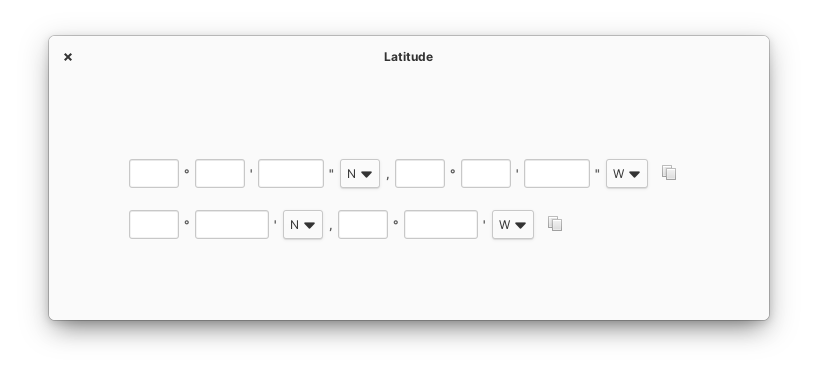
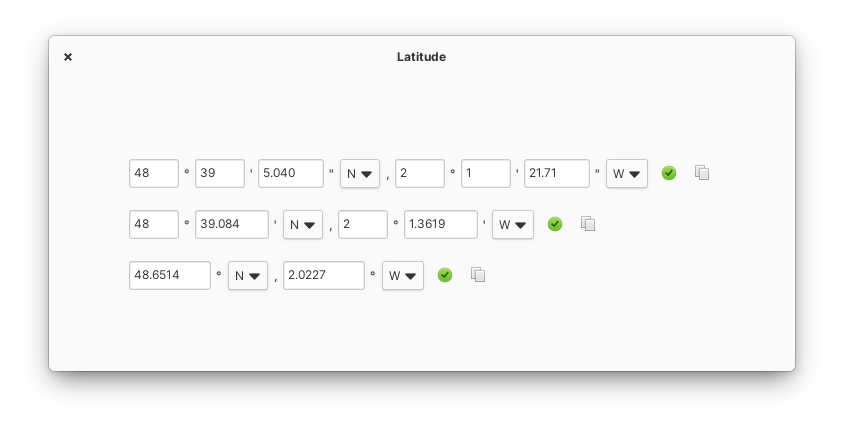
Add conversion

diff --git a/src/coordinate_systems/dmm.py b/src/coordinate_systems/dmm.py
@@ -39,9 +39,9 @@ gi.require_version('Granite', '1.0')
 
 class DMM(Gtk.Box):
     def __init__(self, parent):
+        Gtk.Box.__init__(self, orientation = Gtk.Orientation.HORIZONTAL, halign = Gtk.Align.START)
         self.parent = parent
         self._ = _
-        Gtk.Box.__init__(self, orientation = Gtk.Orientation.HORIZONTAL, halign = Gtk.Align.START)
         
         self.lat_degree_entry = ventry.ValidationEntry(self, 5, 5, 2, int, 90, 'Max 90°')
         self.pack_start(self.lat_degree_entry, True, False, 0)
@@ -51,7 +51,7 @@ class DMM(Gtk.Box):
         alg_label_context.add_class("h4")
         self.pack_start(self.lat_degree_label, False, False, 5)
 
-        self.lat_minute_entry = ventry.ValidationEntry(self, 8, 8, 6, int, 60, "Max 60'")
+        self.lat_minute_entry = ventry.ValidationEntry(self, 8, 8, 6, float, 60, "Max 60'")
         self.pack_start(self.lat_minute_entry, True, False, 0)
 
         self.lat_minute_label = Gtk.Label(label="'", halign=Gtk.Align.START)
@@ -80,7 +80,7 @@ class DMM(Gtk.Box):
         alg_label_context.add_class("h4")
         self.pack_start(self.lon_degree_label, False, False, 5)
         
-        self.lon_minute_entry = ventry.ValidationEntry(self, 8, 8, 6, int, 60, "Max 60'")
+        self.lon_minute_entry = ventry.ValidationEntry(self, 8, 8, 6, float, 60, "Max 60'")
         self.pack_start(self.lon_minute_entry, True, False, 0)
 
         self.lon_minute_label = Gtk.Label(label="'", halign=Gtk.Align.START)
@@ -91,8 +91,8 @@ class DMM(Gtk.Box):
         self.lon_combo = Gtk.ComboBoxText(can_focus=False)
         lon_combo_context = self.lon_combo.get_style_context()
         lon_combo_context.add_class("highlighted_text")
-        self.lon_combo.append_text("W")
         self.lon_combo.append_text("E")
+        self.lon_combo.append_text("W")
         self.lon_combo.set_active(0)
         self.pack_start(self.lon_combo, True, False, 1)
         
@@ -101,25 +101,36 @@ class DMM(Gtk.Box):
         self.pack_end(self.copy_button, False, False, 1)
         
         self.validate_button = Gtk.Button(image=Gtk.Image(icon_name="process-completed", icon_size=Gtk.IconSize.BUTTON), always_show_image=True, can_focus=False)
-        self.validate_button.connect("clicked", self.on_validate)
         self.pack_end(self.validate_button, False, False, 8)  
     
-    def read_dmm(self):
-        lat_degree = self.lat_degree_entry.get_text()
-        lat_minute = self.lat_minute_entry.get_text()
-        lat_cardinal = self.lat_combo.get_active_text()
-        lon_degree = self.lon_degree_entry.get_text()
-        lon_minute = self.lon_minute_entry.get_text()
-        lon_cardinal = self.lon_combo.get_active_text()
-        dmm = lat_degree + '°' + lat_minute + "'" + lat_cardinal
-        dmm += ','
-        dmm += lon_degree + '°' + lon_minute + "'" + lon_cardinal
+    def read(self):
+        dmm = {}
+        dmm['lat'] = (int(self.lat_degree_entry.get_text()),
+                      float(self.lat_minute_entry.get_text()),
+                      self.lat_combo.get_active_text())
+        dmm['lon'] = (int(self.lon_degree_entry.get_text()),
+                      float(self.lon_minute_entry.get_text()),
+                      self.lon_combo.get_active_text())
         return dmm
     
+    def write(self, dmm):
+        lat = dmm.get('lat')
+        lon = dmm.get('lon')
+        self.lat_degree_entry.set_text(str(lat[0]))
+        self.lat_minute_entry.set_text(str(lat[1]))
+        self.lat_combo.set_active(lat[2] == 'S')
+        self.lon_degree_entry.set_text(str(lon[0]))
+        self.lon_minute_entry.set_text(str(lon[1]))
+        self.lon_combo.set_active(lon[2] == 'W')
+        return True
+    
     def on_copy(self, widget):
-        dmm = self.read_dmm()
-        print(dmm)
-        self.parent.clipboard.set_text(dmm, -1)
+        dmm = self.read()
+        lat = dmm.get('lat')
+        lon = dmm.get('lon')
+        txt = f'''{lat[0]}°{lat[1]}'{lat[2]},{lon[0]}°{lon[1]}'{lon[2]}'''
+        print(txt)
+        self.parent.clipboard.set_text(txt, -1)
     
     def clear_all(self):
         self.lat_degree_entry.set_text('')
@@ -128,13 +139,4 @@ class DMM(Gtk.Box):
         self.lon_degree_entry.set_text('')
         self.lon_minute_entry.set_text('')
         self.lon_combo.set_active(0)
-        return True
-
-    def on_validate(self, *args):
-        if self.first_change == True:
-            self.parent.dms_entry.clear_all()
-            self.parent.dms_entry.first_change = True
-            self.parent.ddd_entry.clear_all()
-            self.parent.ddd_entry.first_change = True
-        self.first_change = False
         return True

diff --git a/src/coordinate_systems/dms.py b/src/coordinate_systems/dms.py
@@ -39,9 +39,9 @@ gi.require_version('Granite', '1.0')
 
 class DMS(Gtk.Box):
     def __init__(self, parent):
+        Gtk.Box.__init__(self, orientation = Gtk.Orientation.HORIZONTAL, halign = Gtk.Align.START)
         self.parent = parent
         self._ = _
-        Gtk.Box.__init__(self, orientation = Gtk.Orientation.HORIZONTAL, halign = Gtk.Align.START)
         
         self.lat_degree_entry = ventry.ValidationEntry(self, 5, 5, 2, int, 90, 'Max 90°')
         self.pack_start(self.lat_degree_entry, True, False, 0)
@@ -107,8 +107,8 @@ class DMS(Gtk.Box):
         self.lon_combo = Gtk.ComboBoxText(can_focus=False)
         lon_combo_context = self.lon_combo.get_style_context()
         lon_combo_context.add_class("highlighted_text")
-        self.lon_combo.append_text("W")
         self.lon_combo.append_text("E")
+        self.lon_combo.append_text("W")
         self.lon_combo.set_active(0)
         self.pack_start(self.lon_combo, True, False, 1)
         
@@ -117,27 +117,41 @@ class DMS(Gtk.Box):
         self.pack_end(self.copy_button, False, False, 1)
         
         self.validate_button = Gtk.Button(image=Gtk.Image(icon_name="process-completed", icon_size=Gtk.IconSize.BUTTON), always_show_image=True, can_focus=False)
-        self.validate_button.connect("clicked", self.on_validate)
+        #self.validate_button.connect("clicked", self.on_validate)
         self.pack_end(self.validate_button, False, False, 8)        
     
-    def read_dms(self):
-        lat_degree = self.lat_degree_entry.get_text()
-        lat_minute = self.lat_minute_entry.get_text()
-        lat_second = self.lat_second_entry.get_text()
-        lat_cardinal = self.lat_combo.get_active_text()
-        lon_degree = self.lon_degree_entry.get_text()
-        lon_minute = self.lon_minute_entry.get_text()
-        lon_second = self.lon_second_entry.get_text()
-        lon_cardinal = self.lon_combo.get_active_text()
-        dms = lat_degree + '°' + lat_minute + "'" + lat_second + '"' + lat_cardinal
-        dms += ','
-        dms += lon_degree + '°' + lon_minute + "'" + lon_second + '"' + lon_cardinal
+    def read(self):
+        dms = {}
+        dms['lat'] = (int(self.lat_degree_entry.get_text()),
+                      int(self.lat_minute_entry.get_text()),
+                      float(self.lat_second_entry.get_text()),
+                      self.lat_combo.get_active_text())
+        dms['lon'] = (int(self.lon_degree_entry.get_text()),
+                      int(self.lon_minute_entry.get_text()),
+                      float(self.lon_second_entry.get_text()),
+                      self.lon_combo.get_active_text())
         return dms
     
+    def write(self, dms):
+        lat = dms.get('lat')
+        lon = dms.get('lon')
+        self.lat_degree_entry.set_text(str(lat[0]))
+        self.lat_minute_entry.set_text(str(lat[1]))
+        self.lat_second_entry.set_text(str(lat[2]))
+        self.lat_combo.set_active(lat[3] == 'S')
+        self.lon_degree_entry.set_text(str(lon[0]))
+        self.lon_minute_entry.set_text(str(lon[1]))
+        self.lon_second_entry.set_text(str(lon[2]))
+        self.lon_combo.set_active(lon[3] == 'W')
+        return True
+    
     def on_copy(self, widget):
-        dms = self.read_dms()
-        print(dms)
-        self.parent.clipboard.set_text(dms, -1)
+        dms = self.read()
+        lat = dms.get('lat')
+        lon = dms.get('lon')
+        txt = f'''{lat[0]}°{lat[1]}'{lat[2]}"{lat[3]},{lon[0]}°{lon[1]}'{lon[2]}"{lon[3]}'''
+        print(txt)
+        self.parent.clipboard.set_text(txt, -1)
     
     def clear_all(self):
         self.lat_degree_entry.set_text('')
@@ -148,13 +162,4 @@ class DMS(Gtk.Box):
         self.lon_minute_entry.set_text('')
         self.lon_second_entry.set_text('')
         self.lon_combo.set_active(0)
-        return True
-
-    def on_validate(self, *args):
-        if self.first_change == True:
-            self.parent.dmm_entry.clear_all()
-            self.parent.dmm_entry.first_change = True
-            self.parent.ddd_entry.clear_all()
-            self.parent.ddd_entry.first_change = True
-        self.first_change = False
         return True

diff --git a/src/coordinate_systems/ddd.py b/src/coordinate_systems/ddd.py
@@ -39,9 +39,9 @@ gi.require_version('Granite', '1.0')
 
 class DDD(Gtk.Box):
     def __init__(self, parent):
+        Gtk.Box.__init__(self, orientation = Gtk.Orientation.HORIZONTAL, halign = Gtk.Align.START)
         self.parent = parent
         self._ = _
-        Gtk.Box.__init__(self, orientation = Gtk.Orientation.HORIZONTAL, halign = Gtk.Align.START)
         
         self.lat_degree_entry = ventry.ValidationEntry(self, 9, 9, 7, float, 90, 'Max 90°')
         self.pack_start(self.lat_degree_entry, True, False, 0)
@@ -75,8 +75,8 @@ class DDD(Gtk.Box):
         self.lon_combo = Gtk.ComboBoxText(can_focus=False)
         lon_combo_context = self.lon_combo.get_style_context()
         lon_combo_context.add_class("highlighted_text")
-        self.lon_combo.append_text("W")
         self.lon_combo.append_text("E")
+        self.lon_combo.append_text("W")
         self.lon_combo.set_active(0)
         self.pack_start(self.lon_combo, True, False, 1)
         
@@ -85,37 +85,36 @@ class DDD(Gtk.Box):
         self.pack_end(self.copy_button, False, False, 1)
         
         self.validate_button = Gtk.Button(image=Gtk.Image(icon_name="process-completed", icon_size=Gtk.IconSize.BUTTON), always_show_image=True, can_focus=False)
-        self.validate_button.connect("clicked", self.on_validate)
         self.pack_end(self.validate_button, False, False, 8)  
     
-    def read_ddd(self):
-        lat_degree = self.lat_degree_entry.get_text()
-        lat_cardinal = self.lat_combo.get_active_text()
-        lon_degree = self.lon_degree_entry.get_text()
-        lon_cardinal = self.lon_combo.get_active_text()
-        ddd = lat_degree + '°' + lat_cardinal
-        ddd += ','
-        ddd += lon_degree + '°' + lon_cardinal
-        self.parent.clipboard.set_text(ddd, -1)
+    def read(self):
+        ddd = {}
+        ddd['lat'] = (float(self.lat_degree_entry.get_text()),
+                      self.lat_combo.get_active_text())
+        ddd['lon'] = (float(self.lon_degree_entry.get_text()),
+                      self.lon_combo.get_active_text())
         return ddd
     
+    def write(self, ddd):
+        lat = ddd.get('lat')
+        lon = ddd.get('lon')
+        self.lat_degree_entry.set_text(str(lat[0]))
+        self.lat_combo.set_active(lat[1] == 'S')
+        self.lon_degree_entry.set_text(str(lon[0]))
+        self.lon_combo.set_active(lon[1] == 'W')
+        return True
+    
     def on_copy(self, widget):
-        ddd = self.read_ddd()
-        print(ddd)
-        self.parent.clipboard.set_text(ddd, -1)
+        dmm = self.read()
+        lat = dmm.get('lat')
+        lon = dmm.get('lon')
+        txt = f'''{lat[0]}°{lat[1]},{lon[0]}°{lon[1]}'''
+        print(txt)
+        self.parent.clipboard.set_text(txt, -1)
     
     def clear_all(self):
         self.lat_degree_entry.set_text('')
         self.lat_combo.set_active(0)
         self.lon_degree_entry.set_text('')
         self.lon_combo.set_active(0)
-        return True
-    
-    def on_validate(self, *args):
-        if self.first_change == True:
-            self.parent.dms_entry.clear_all()
-            self.parent.dms_entry.first_change = True
-            self.parent.dmm_entry.clear_all()
-            self.parent.dmm_entry.first_change = True
-        self.first_change = False
         return True

diff --git a/src/window.py b/src/window.py
@@ -25,6 +25,7 @@ import constants as cn
 import dms 
 import dmm
 import ddd
+import converter
 
 gi.require_version('Gtk', '3.0')
 # gi.require_version('Granite', '1.0')
@@ -55,14 +56,9 @@ except FileNotFoundError:
 class Window(Gtk.Window):
 
     def __init__(self):
-        Gtk.Window.__init__(
-            self, 
-            title=cn.App.application_name
-        )
+        Gtk.Window.__init__(self, title=cn.App.application_name)
         self._ = _
         self.clipboard = Gtk.Clipboard.get(Gdk.SELECTION_CLIPBOARD)
-        
-        self.current_focus = 'dms'
         
         context = self.get_style_context()
         context.add_class ("rounded")
@@ -91,9 +87,15 @@ class Window(Gtk.Window):
         select_file_button_context = self.select_file_button.get_style_context()
         select_file_button_context.add_class("suggested-action")
         
+        self.converter = converter.Converter()
+        
         self.dms_entry = dms.DMS(self)
         self.dmm_entry = dmm.DMM(self)
         self.ddd_entry = ddd.DDD(self)
+        
+        self.dms_entry.validate_button.connect("clicked", self.on_validate_dms)
+        self.dmm_entry.validate_button.connect("clicked", self.on_validate_dmm)
+        self.ddd_entry.validate_button.connect("clicked", self.on_validate_ddd)
 
         self.vbox.pack_start(self.dms_entry, False, False, 1)
         self.vbox.pack_start(self.dmm_entry, False, False, 1)
@@ -109,3 +111,24 @@ class Window(Gtk.Window):
                 print("Hello")
 
         dialog.destroy()
+        
+    def on_validate_dms(self, *args):
+        dmm = self.converter.dms2dmm(self.dms_entry.read())
+        self.dmm_entry.write(dmm)
+        ddd = self.converter.dms2ddd(self.dms_entry.read())
+        self.ddd_entry.write(ddd)
+        return True
+    
+    def on_validate_dmm(self, *args):
+        dms = self.converter.dmm2dms(self.dmm_entry.read())
+        self.dms_entry.write(dms)
+        ddd = self.converter.dmm2ddd(self.dmm_entry.read())
+        self.ddd_entry.write(ddd)
+        return True
+    
+    def on_validate_ddd(self, *args):
+        dms = self.converter.ddd2dms(self.ddd_entry.read())
+        self.dms_entry.write(dms)
+        dmm = self.converter.ddd2dmm(self.ddd_entry.read())
+        self.dmm_entry.write(dmm)
+        return True

diff --git a/src/coordinate_systems/converter.py b/src/coordinate_systems/converter.py
@@ -1,0 +1,47 @@
+class Converter:
+    def __init__(self):
+        pass
+
+    def dms2ddd(self, dms):
+        ddd = {}
+        lat = dms.get('lat')
+        lon = dms.get('lon')    
+        ddd['lat'] = (lat[0] + lat[1]/60 + lat[2]/3600, lat[3])
+        ddd['lon'] = (lon[0] + lon[1]/60 + lon[2]/3600, lon[3])
+        return ddd
+
+    def ddd2dms(self, ddd):
+        dms = {}
+        lat = ddd.get('lat')
+        lon = ddd.get('lon')    
+        dms['lat'] = (int(lat[0]), int(60*(lat[0]%1)), ((60*(lat[0]%1))%1)*60, lat[1])
+        dms['lon'] = (int(lon[0]), int(60*(lon[0]%1)), ((60*(lon[0]%1))%1)*60, lon[1])
+        return dms
+    
+    def ddd2dmm(self, ddd):
+        dmm = {}
+        lat = ddd.get('lat')
+        lon = ddd.get('lon')    
+        dmm['lat'] = (int(lat[0]), 60*(lat[0]%1), lat[1])
+        dmm['lon'] = (int(lon[0]), 60*(lon[0]%1), lon[1])
+        return dmm
+    
+    def dmm2dms(self, dmm):
+        dms = {}
+        lat = dmm.get('lat')
+        lon = dmm.get('lon')    
+        dms['lat'] = (lat[0], int(lat[1]), int(60*(lat[1]%1)), lat[1])
+        dms['lon'] = (lon[0], int(lon[1]), int(60*(lon[1]%1)), lon[1])
+        return dms
+    
+    def dmm2ddd(self, dmm):
+        dms = self.dmm2dms(dmm)
+        ddd = self.dms2ddd(dms)
+        return ddd
+    
+    def dms2dmm(self, dms):
+        ddd = self.dms2ddd(dms)
+        dmm = self.ddd2dmm(ddd)
+        print(dmm)
+        return dmm
+

diff --git a/setup.py b/setup.py
@@ -9,6 +9,7 @@ install_data = [
     ('share/icons/hicolor/128x128/apps', ['data/com.github.malothebault.latitude.svg']),
     ('/usr/share/glib-2.0/schemas', ["data/com.github.malothebault.latitude.gschema.xml"]),
     ('bin/latitude', ['src/constants.py']),
+    ('bin/latitude', ['src/coordinate_systems/converter.py']),
     ('bin/latitude', ['src/coordinate_systems/dms.py']),
     ('bin/latitude', ['src/coordinate_systems/dmm.py']),
     ('bin/latitude', ['src/coordinate_systems/ddd.py']),
